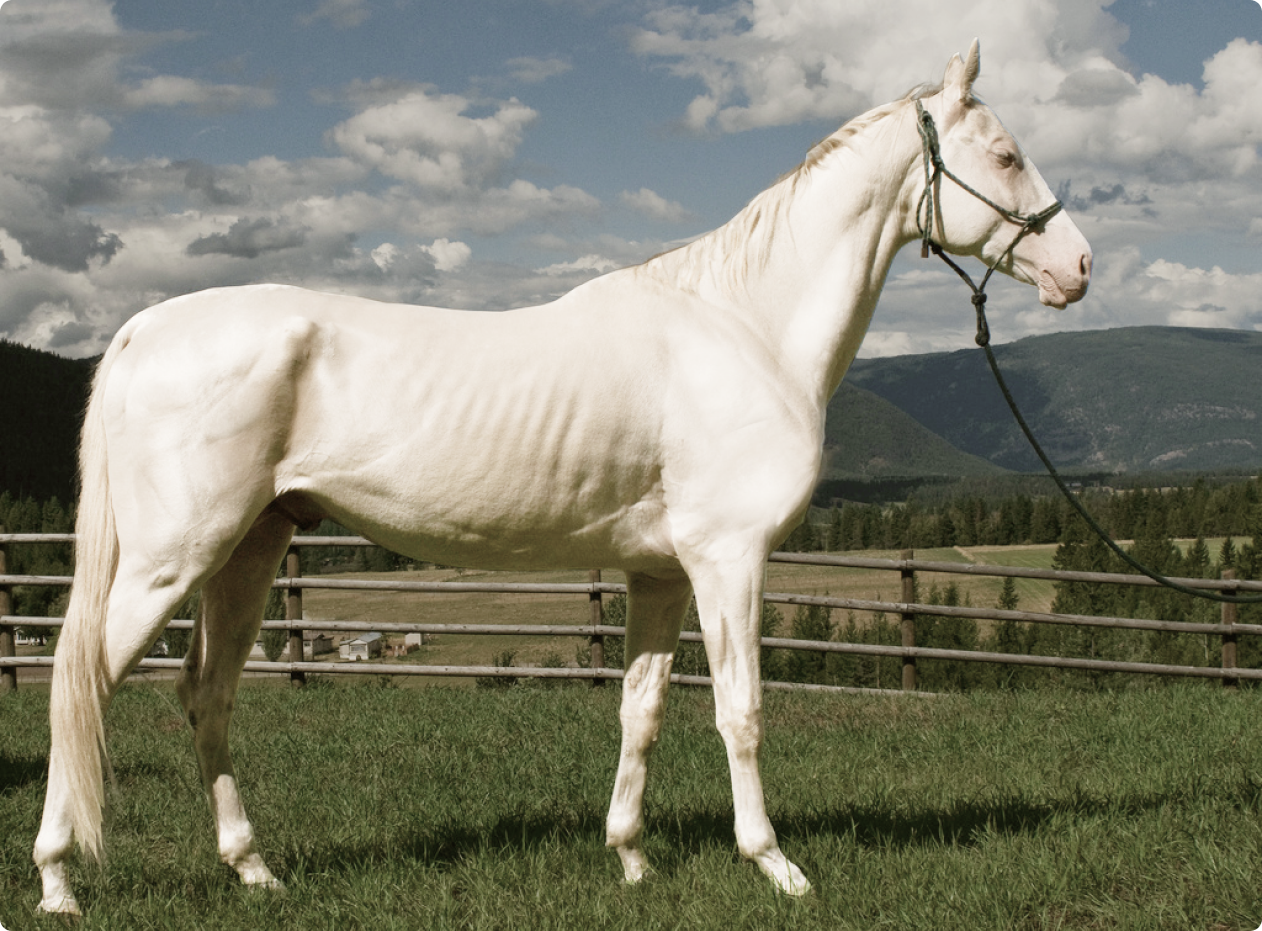
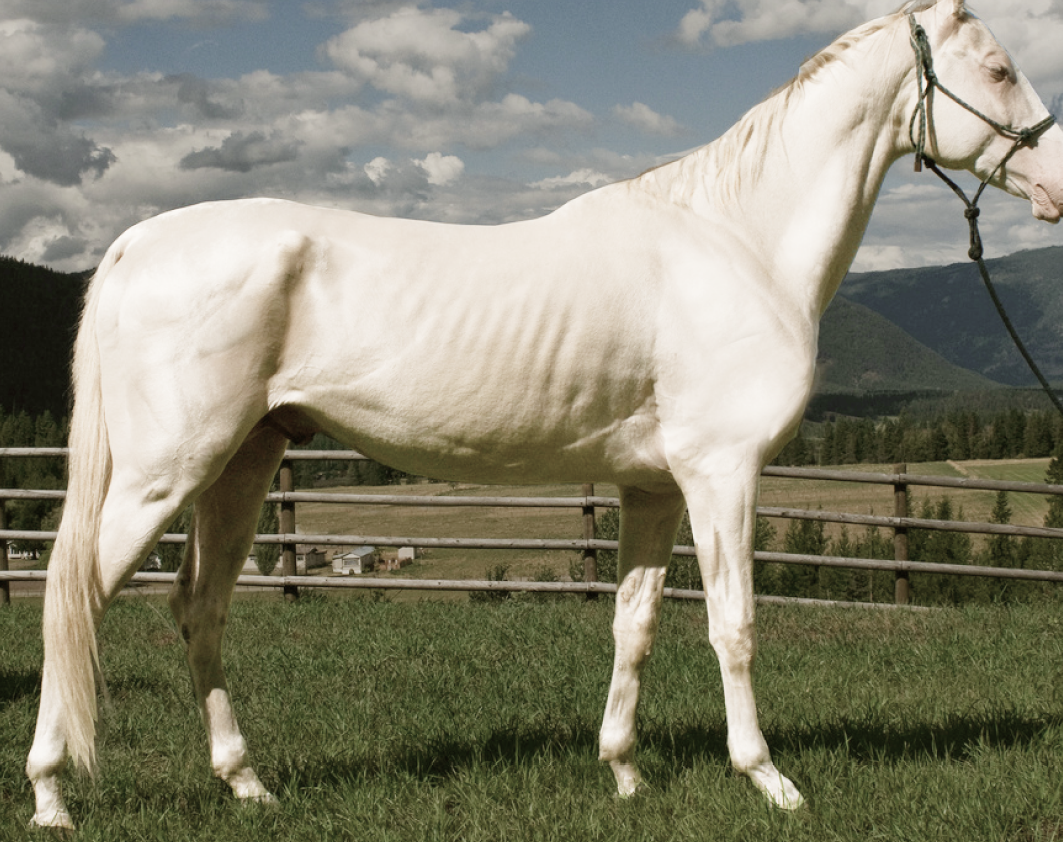
bugs fixed

diff --git a/src/screens/About.js b/src/screens/About.js
@@ -30,36 +30,30 @@ function About() {
       <header className="md:h-screen bg-[#EBEBEB] md:pt-[8vw] pt-[30vw] px-[5vw] relative md:pb-0 pb-[8vw]">
         <div className="relative z-[30] md:w-[50vw] w-[70vw] pl-[10vw]">
           <h1 className="md:text-[2vw] text-[5vw] text-[#E94B4B] my-[4vw] uppercase font-bold">
-            Vetline Korxonasi
+            {language["company"]}
           </h1>
           <p className="text-black mt-[5vw] md:text-[1.2vw] text-[3.2vw]">
-            "Vet Line" korxona - bu uy hayvonlari va qoramollar salomatligi
-            uchun turli xil mahsulotlar qo'shimchalar, vitaminlar, vaktsinalar
-            va dori-darmonlarn ishlab chiqaruvchi korxona. "Vet Line" korxonasi
-            mahsulotlari veterinar tavsiyasiga yoki ko'rsatmalariga muvofiq
-            ishlatilishi kerak. Uy hayvonlari egalari mahsulotlarni ishlatishdan
-            oldin veterinar bilan gaplashishlari va ularni hayvonlarning o'ziga
-            xos ehtiyojlariga qarab qanday ishlatishni so'rashlari kerak
+            {language["about_p"]}
           </p>
           <div className="flex gap-[2vw] mt-[2vw]">
             <a href="https://youtu.be/ZvWbYsqNUpQ" target="_blank">
               <button className=" md:px-[3.6vw] px-[6.6vw] md:py-[.5vw] py-[1.5vw] rounded-[7vw] md:text-[1vw] text-[3.5vw] relative z-20 bg-[#EA5252] text-[#fff] hover:bg-[#db1616] transition">
-                Video
+                {language["video"]}
               </button>
             </a>
             <a href="#contact">
               <button className="border-black border md:px-[3.6vw] px-[6.6vw] md:py-[.5vw] py-[1.5vw] rounded-[7vw] md:text-[1vw] text-[3.5vw] relative z-20 bg-transparent hover:bg-[#000] hover:text-[#fff] transition">
-                Aloqa
+                {language["5"]}
               </button>
             </a>
           </div>
-          <div className="md:flex hidden items-center mt-[8vw]">
+          <div className="md:flex hidden items-center absolute bottom-[-8vw]">
             <img
               src="https://i.giphy.com/media/deKZM8D0orxwQ18qtB/giphy.webp"
               alt=""
               className="w-[4vw] h-[4vw] object-contain invert-[1]"
             />
-            <p className="text-[1.2vw]">Ko'proq ma'lumot uchun scroll qiling</p>
+            <p className="text-[1.2vw]">{language['scroll']}</p>
           </div>
         </div>
         <img
@@ -130,7 +124,7 @@ function About() {
       </div>
       <div className="bg-[#E94B4B] py-[5vw]">
         <h1 className="text-[#fff] font-bold md:text-[2.4vw] text-[4.4vw] text-center">
-          Davolanish natijalari
+          {language["results_treatment"]}
         </h1>
         <div className="py-[4vw] pl-[6vw]">
           <Slider {...settings}>
@@ -158,7 +152,7 @@ function About() {
       </div>
       <div className="bg-[#EA5252] p-[5vw]">
         <h1 className="text-[#fff] font-bold md:text-[2.4vw] text-[4.4vw] text-center">
-          Korxonamiz haqida video
+          {language["ovideo"]}
         </h1>
         <div className="bg-phone md:p-[1vw] p-[2vw] bg-cover md:w-[45vw] md:h-[22vw] w-[85vw] h-[42vw] m-auto mt-[3vw]">
           <iframe
@@ -171,12 +165,7 @@ function About() {
           />
         </div>
         <p className="text-[#fff] md:text-[1.2vw] text-[3.2vw] mt-[2vw] md:w-[80%] w-[90%] m-auto ">
-          Bizning Vet Line Animal Health hayvonlar uchun ishlab chiqarilgan
-          barcha mahsulotlarni test qiladi va yuqori sifat natijalarni
-          ta'minlash uchun harakat qiladi. Kompaniya ayni vaqtda xaridorga
-          ishonchli xizmat ko'rsatishni ta'minlash maqsadida ishlab chiqarilgan
-          barcha mahsulotlarga daromadli narxlar bilan ta'minlashga harakat
-          qiladi.
+          {language["ovideotx"]}
         </p>
       </div>
       <div

diff --git a/src/screens/Home.js b/src/screens/Home.js
@@ -84,7 +84,7 @@ function Home() {
                             </button>
                             <div className="flex flex-col">
                               <h1 className="font-medium text-[#fff] text-[1.2vw] mt-[.5vw]">
-                                Mushukcha
+                                {language.cat}
                               </h1>
                               <p className="font-medium text-[#fff] text-[.8vw]">
                                 {language.top1}
@@ -103,7 +103,7 @@ function Home() {
                           <div className="flex gap-[1.4vw] relative p-[.4vw] items-start justify-between">
                             <div className="flex flex-col pl-[2vw]">
                               <h1 className="font-medium text-[#fff] text-[1.2vw] mt-[.5vw]">
-                                Mushukcha
+                                {language.cat}
                               </h1>
                               <img
                                 src={require("../assets/img/multicat.png")}
@@ -185,13 +185,19 @@ function Home() {
                       window.innerWidth > 768 && `url(${item?.photo})`
                   }}
                 >
-                  <img src={item?.photo} className="w-[30vw] h-[25vw] object-cover rounded-[2vw]  md:hidden block" alt="" />
+                  <img
+                    src={item?.photo}
+                    className="max-w-[30vw] w-full h-[25vw] object-cover rounded-[2vw]  md:hidden block"
+                    alt=""
+                  />
                   <div className="w-full md:bg-[#00000065] h-full absolute top-0 left-0 to-top transition-[.3s] "></div>
                   <div className="md:static flex flex-col gap-[2vw] items-start">
                     <p className="md:text-[#fff] z-[20] md:text-[2vw] text-[5vw] md:text-center md:font-normal font-semibold">
                       {item[`title_${currentLang}`]}
                     </p>
-                    <button className="bg-[#E94A4A] p-[1vw] px-[5vw] text-[#fff] rounded-[2vw] md:hidden block">{language.top["6"]}</button>
+                    <button className="bg-[#E94A4A] p-[1vw] px-[5vw] text-[#fff] rounded-[2vw] md:hidden block">
+                      {language.top["6"]}
+                    </button>
                   </div>
                 </Link>
               ))}

diff --git a/src/components/utils.js b/src/components/utils.js
@@ -25,9 +25,7 @@ export const tabNames = [
   {
     id: 1,
     name: "Ot",
-    before:
-      "https://www.equilac.com/wp-content/uploads/2022/03/horse-milk-1.jpg",
-    after:
-      "https://images.pexels.com/photos/1996333/pexels-photo-1996333.jpeg?cs=srgb&dl=pexels-helena-lopes-1996333.jpg&fm=jpg"
+    before: require("../assets/img/5.png"),
+    after: require("../assets/img/6.png")
   }
 ];

diff --git a/src/components/Footer.js b/src/components/Footer.js
@@ -21,7 +21,7 @@ function Footer() {
                 <HeaderLogo />
               </div> */}
               <p className="md:text-[1vw] text-[3vw] md:text-[#000] text-[#fff]">
-                Hayvonlar uchun yuqori sifatli asl ozuqalar hamda dori-darmonla
+                {language['footerlogo']}
               </p>
             </div>
             <iframe
